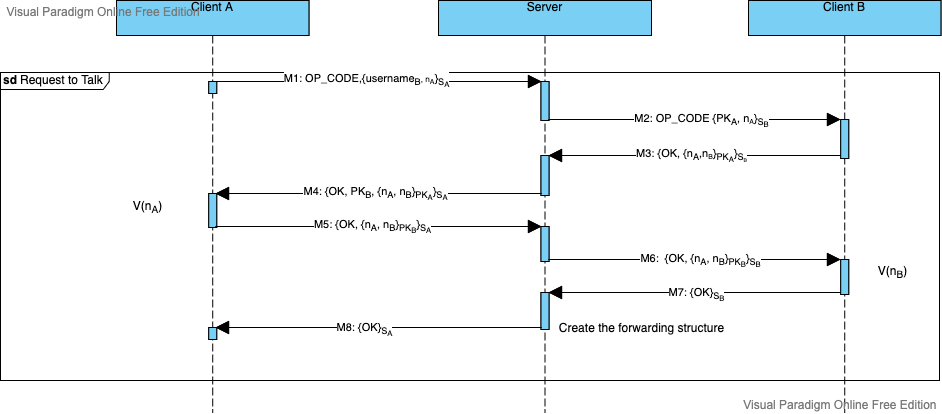
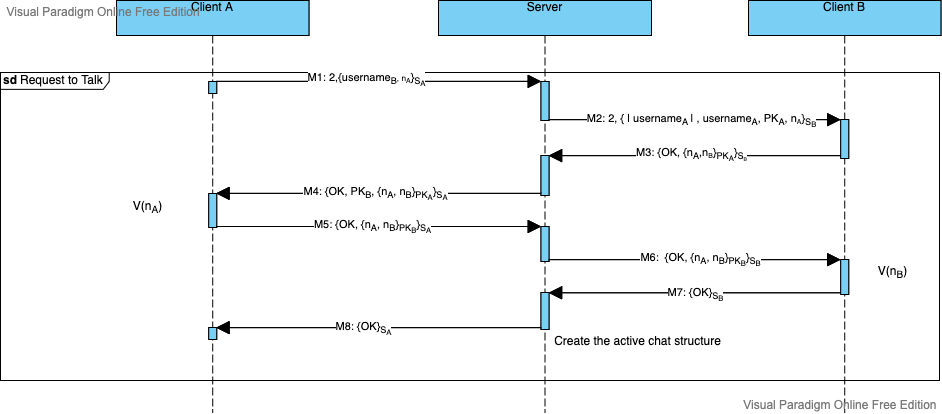
update resources

diff --git a/README.md b/README.md
@@ -1,13 +1,14 @@
 # Secure messaging
-Secure messaging is a chatting application that offers confidentiality, integrity and reliability. It achieves confidentiality and integrity through authenticated encryption, whereas reliability with TCP communications. 
 
-Secure messaging works on Unix-like systems; we tested it on x86_64 Linux and intel/apple-silicon Mac. 
+Secure messaging is a chatting application that offers confidentiality, integrity and reliability. It achieves confidentiality and integrity through authenticated encryption, whereas reliability with TCP communications.
+
+Secure messaging works on Unix-like systems; we tested it on x86_64 Linux and intel/apple-silicon Mac.ì
 
 ## Design Choices
 
 - la firma della CA deve essere installata nel client, per evitare di fare un altro server(ricordarsi di fare la CRL!!!)
 
-## Login protocol
+## Protocols
 
 ### Server-Auth
 
